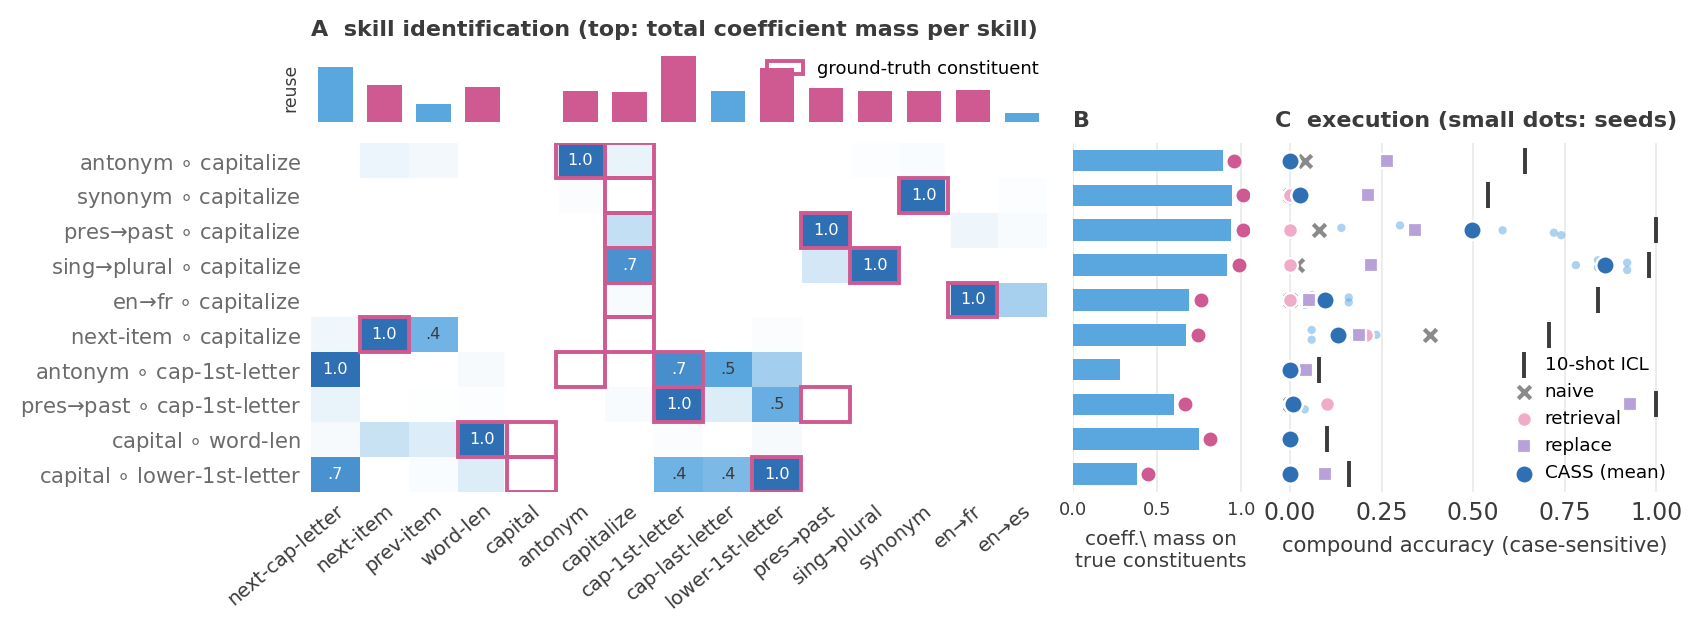
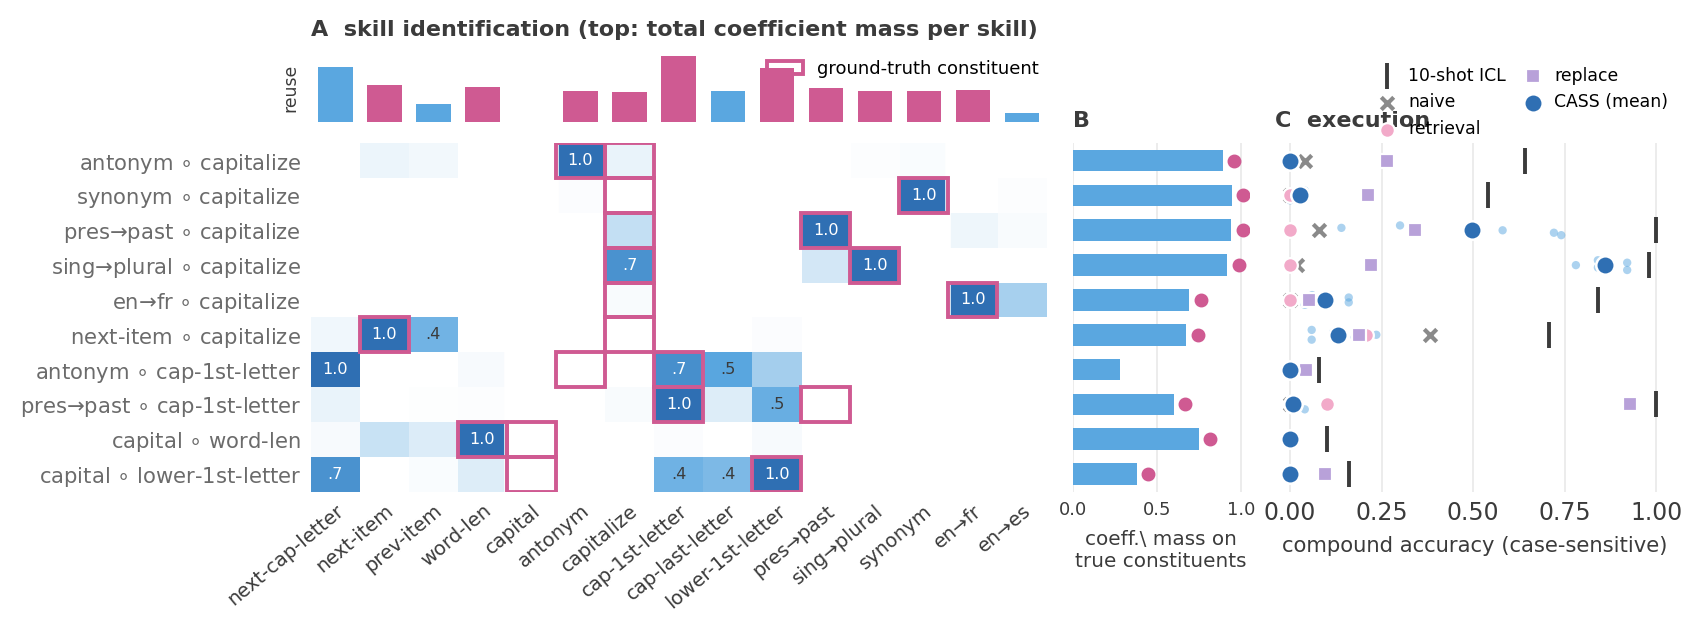
Fig 3: panel A redesigned as horizontal Cleveland dot plot (2 columns x 16 tasks, horizontal task labels); B legend -> line-end labels; legend over column 2. Fig 4: panel-C legend moved above the axes into the empty top band, single-line title

Changed region(s): [[0.8096, 0.0902, 0.9965, 0.2104], [0.8719, 0.5712, 0.9653, 0.7816]]

diff --git a/scripts/16_paper_figures.py b/scripts/16_paper_figures.py
@@ -95,66 +95,69 @@ R4 = R[R["k"] == 4].sort_values(["family", "task"]).reset_index(drop=True)
 e1 = pd.read_csv(out / "e1_loto.csv")
 bl = json.load(open(out / "baselines.json"))
 
-fig = plt.figure(figsize=(9.2, 3.55))
-gs = fig.add_gridspec(2, 2, width_ratios=[2.1, 1], hspace=0.40, wspace=0.2)
-axA1 = fig.add_subplot(gs[0, 0])
-axA2 = fig.add_subplot(gs[1, 0])
-axB = fig.add_subplot(gs[0, 1])
-axD = fig.add_subplot(gs[1, 1])
+fig = plt.figure(figsize=(9.2, 4.0))
+gs = fig.add_gridspec(2, 3, width_ratios=[1, 1, 1.12], hspace=0.52,
+                      wspace=0.34)
+axA1 = fig.add_subplot(gs[:, 0])
+axA2 = fig.add_subplot(gs[:, 1])
+axB = fig.add_subplot(gs[0, 2])
+axD = fig.add_subplot(gs[1, 2])
 
 half = int(np.ceil(len(R4) / 2))
+zv = e1[(e1["mode"] == "zvec") & (e1["k"] == 4) &
+        (e1["seed"] < 3)].groupby("task")["acc"].mean()
 for ax, chunk in zip([axA1, axA2], [R4.iloc[:half], R4.iloc[half:]]):
     chunk = chunk.reset_index(drop=True)
-    x = np.arange(len(chunk))
-    ax.grid(axis="y", zorder=0)
+    n = len(chunk)
+    ax.grid(axis="x", zorder=0)
     prev, start = None, 0
-    for i, f in enumerate(list(chunk["family"]) + [None]):
-        if f != prev:
+    for i, fam in enumerate(list(chunk["family"]) + [None]):
+        if fam != prev:
             if prev is not None:
-                ax.text((start + i - 1) / 2, 1.09, prev, ha="center",
-                        va="top", fontsize=6.8, color=MUTED, style="italic")
-                if f is not None:
-                    ax.axvline(i - 0.5, color="#e3e3e3", lw=0.8, zorder=0)
-            prev, start = f, i
-    zv = e1[(e1["mode"] == "zvec") & (e1["k"] == 4) &
-            (e1["seed"] < 3)].groupby("task")["acc"].mean()
+                ax.text(1.03, n - 1 - start + 0.1, prev, ha="right",
+                        va="bottom", fontsize=6.4, color=MUTED,
+                        style="italic")
+                if fam is not None:
+                    ax.axhline(n - 1 - i + 0.5, color="#e3e3e3", lw=0.8,
+                               zorder=0)
+            prev, start = fam, i
     for i, row in chunk.iterrows():
+        yv = n - 1 - i
         lo, hi = sorted([row["acc_syn"], row["acc_oracle"]])
-        ax.plot([i, i], [lo, hi], color="#c4d8ea", lw=2.2, zorder=2,
+        ax.plot([lo, hi], [yv, yv], color="#c4d8ea", lw=2.2, zorder=2,
                 solid_capstyle="round")
         z0 = zv.get(row["task"], np.nan)
         if np.isfinite(z0):
-            ax.plot(i, z0, "o", markersize=4.2, markerfacecolor="white",
+            ax.plot(z0, yv, "o", markersize=4.0, markerfacecolor="white",
                     markeredgecolor=MUTED, markeredgewidth=1.1, zorder=3)
-        ax.plot(i, row["acc_oracle"], "o", color=PINK, markersize=6,
-                markeredgecolor="white", markeredgewidth=1.1, zorder=3)
-        ax.plot(i, row["acc_syn"], "o", color=DBLUE, markersize=6,
-                markeredgecolor="white", markeredgewidth=1.1, zorder=4)
-        ax.plot([i - 0.33, i + 0.33], [row["acc_icl"]] * 2, color=INK,
+        ax.plot(row["acc_oracle"], yv, "o", color=PINK, markersize=5.6,
+                markeredgecolor="white", markeredgewidth=1.0, zorder=3)
+        ax.plot(row["acc_syn"], yv, "o", color=DBLUE, markersize=5.6,
+                markeredgecolor="white", markeredgewidth=1.0, zorder=4)
+        ax.plot([row["acc_icl"]] * 2, [yv - 0.34, yv + 0.34], color=INK,
                 lw=1.0, zorder=3)
-    ax.set_xticks(x)
-    ax.set_xticklabels([short(t) for t in chunk["task"]], rotation=40,
-                       fontsize=6.9, ha="right", rotation_mode="anchor")
-    ax.set_ylim(-0.04, 1.12)
-    ax.set_xlim(-0.7, half - 0.3)
-    ax.set_yticks([0, 0.5, 1.0])
-    ax.set_ylabel("accuracy", fontsize=8.5)
-    ax.tick_params(axis="y", labelsize=7.5)
+    ax.set_yticks(range(n))
+    ax.set_yticklabels([short(t) for t in chunk["task"]][::-1], fontsize=6.8)
+    ax.set_ylim(-0.6, n - 0.4)
+    ax.set_xlim(-0.02, 1.04)
+    ax.set_xticks([0, 0.5, 1.0])
+    ax.tick_params(axis="x", labelsize=7)
+    ax.set_xlabel("accuracy", fontsize=7.5)
 handles = [
-    Line2D([0], [0], marker="o", color=DBLUE, lw=0, markersize=6,
+    Line2D([0], [0], marker="o", color=DBLUE, lw=0, markersize=5.6,
            markeredgecolor="white"),
-    Line2D([0], [0], marker="o", lw=0, markersize=4.2,
+    Line2D([0], [0], marker="o", lw=0, markersize=4.0,
            markerfacecolor="white", markeredgecolor=MUTED),
-    Line2D([0], [0], marker="o", color=PINK, lw=0, markersize=6,
+    Line2D([0], [0], marker="o", color=PINK, lw=0, markersize=5.6,
            markeredgecolor="white"),
     Line2D([0], [0], color=INK, lw=1.0),
 ]
-axA1.legend(handles, ["CASS (k=4)", "$z$ only", "oracle", "10-shot ICL"],
-            ncol=4, loc="lower right", bbox_to_anchor=(1.0, 1.02),
-            fontsize=6.8, handlelength=1.1, columnspacing=0.8,
-            frameon=False)
+axA2.legend(handles, ["CASS (k=4)", "$z$ only", "oracle", "10-shot ICL"],
+            ncol=4, loc="lower left", bbox_to_anchor=(-0.02, 1.005),
+            fontsize=6.8, handlelength=1.0, columnspacing=0.8,
+            handletextpad=0.35, frameon=False)
 axA1.set_title("A  per-task accuracy", fontsize=8, loc="left",
-               color=INK, fontweight="bold", pad=11)
+               color=INK, fontweight="bold", pad=10)
 
 # B: median rho vs k with bootstrap CI band for CASS
 def rho_tasks(mode, k, seeds=3):
@@ -177,13 +180,16 @@ for mode, col, lab in [("cass", DBLUE, "CASS"), ("zvec", MUTED, "$z$ only"),
     axB.fill_between(ks, lo, hi, color=col, alpha=0.14 if mode == "cass"
                      else 0.09, lw=0)
     axB.plot(ks, med, color=col, lw=2, marker="o", markersize=5,
-             markeredgecolor="white", markeredgewidth=1.1, label=lab,
+             markeredgecolor="white", markeredgewidth=1.1,
              solid_capstyle="round")
+    axB.annotate(lab, (ks[-1], med[-1]), xytext=(5, 0),
+                 textcoords="offset points", fontsize=6.6, color=col,
+                 va="center")
 axB.grid(axis="y", zorder=0)
 axB.set_xticks([1, 2, 4])
-axB.set_xlabel("examples $k$", fontsize=7.5)
+axB.set_xlim(0.7, 6.3)
+axB.set_xlabel("examples $k$", fontsize=7.5, labelpad=1)
 axB.set_ylabel(r"median $\rho$", fontsize=7.5)
-axB.legend(fontsize=6.5, loc="center right", handlelength=1.4)
 axB.set_title("B  recovery vs. $k$ (band: 95% CI)", fontsize=8, loc="left",
               color=INK, fontweight="bold")
 
@@ -377,9 +383,10 @@ axE.tick_params(labelleft=False)
 axE.set_xlim(-0.04, 1.05)
 axE.set_xlabel("compound accuracy (case-sensitive)", fontsize=7.6)
 axE.grid(axis="x", zorder=0)
-axE.legend(fontsize=6.6, loc="lower right", handletextpad=0.15,
-           borderaxespad=0.1)
-axE.set_title("C  execution (small dots: seeds)", fontsize=8, loc="left",
+axE.legend(fontsize=6.2, loc="lower right", bbox_to_anchor=(1.0, 0.995),
+           ncol=2, frameon=False, handletextpad=0.2, columnspacing=0.6,
+           borderaxespad=0.0)
+axE.set_title("C  execution", fontsize=8, loc="left",
               color=INK, fontweight="bold")
 save("e2_heatmap")
 